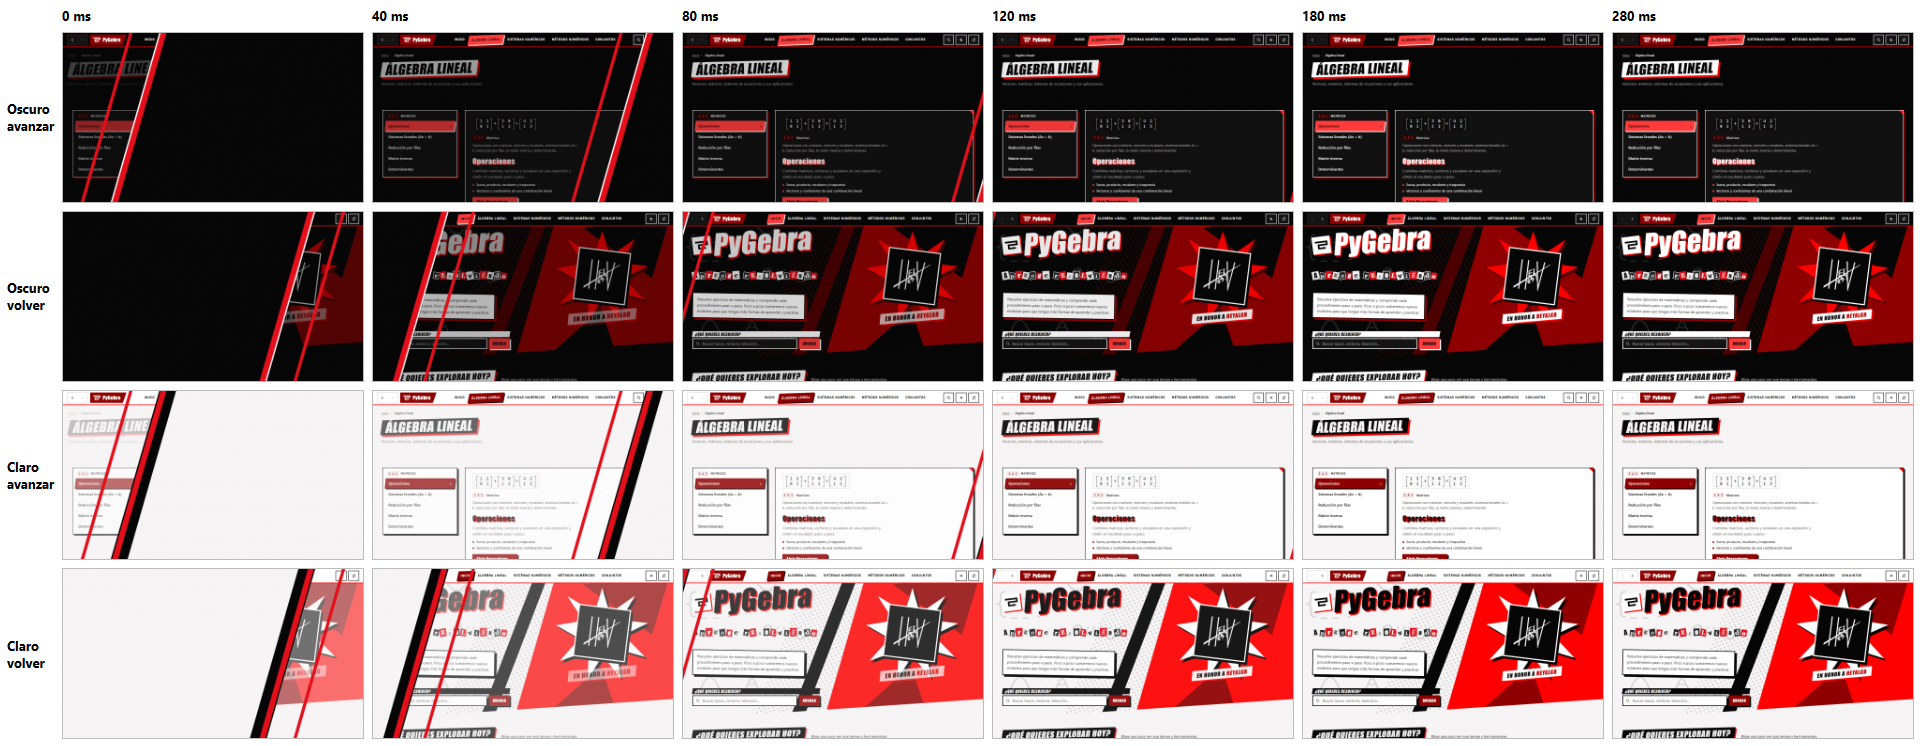
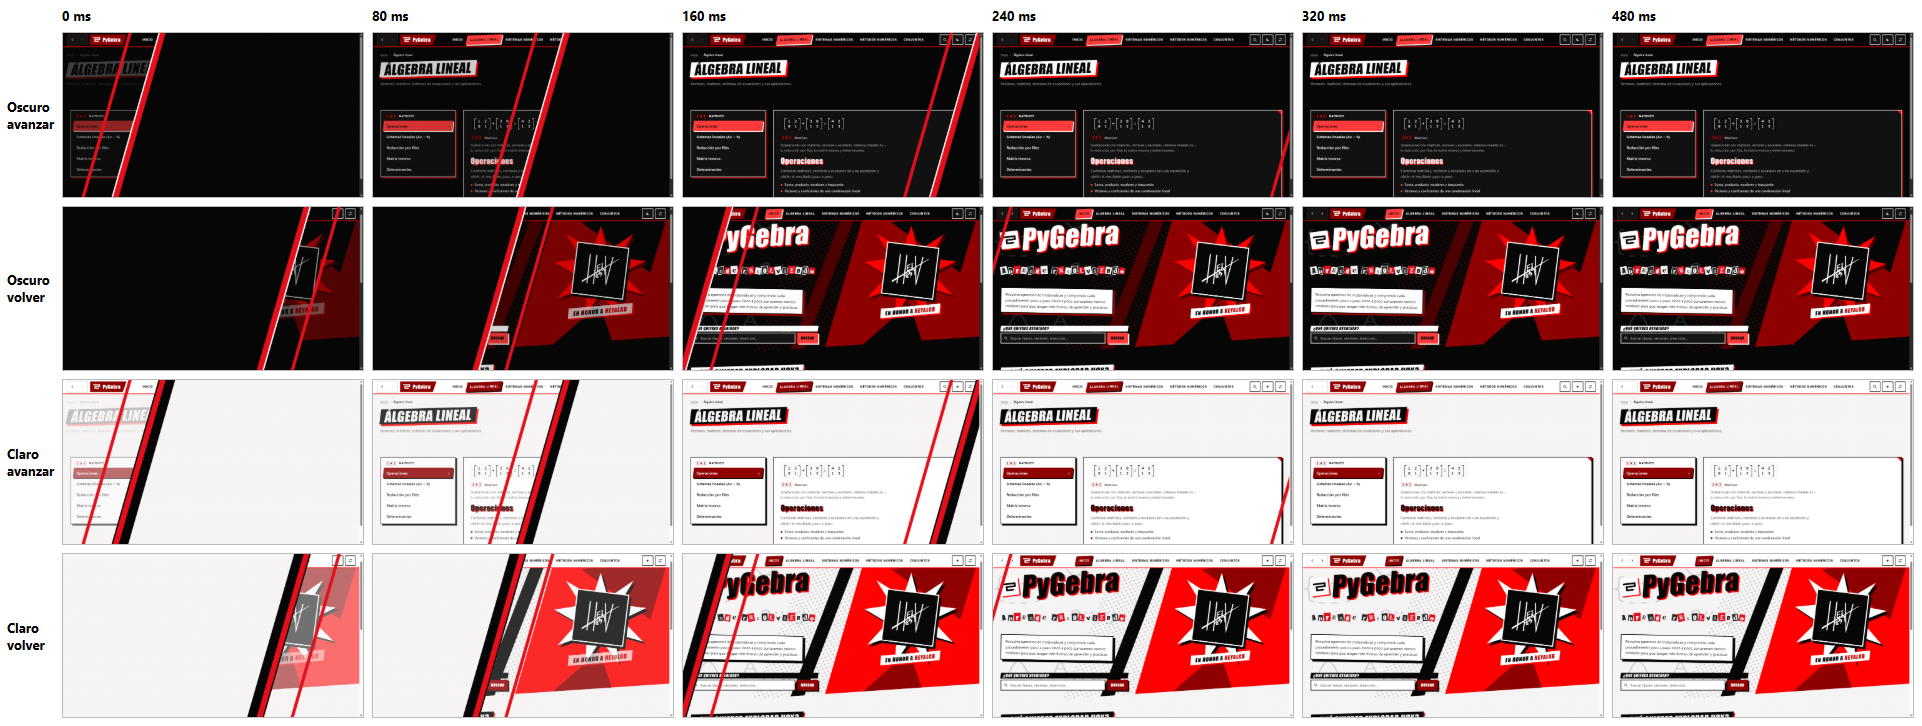
feat: dar más presencia al corte de HeyAlgb al cambiar de pantalla
El corte y su eco duran 0.48 s con una curva casi constante que frena al salir: las tres franjas y la diagonal se leen, la mitad de la página se ve hacia los 80 ms y las capas siguen sin recibir el puntero. Demo y mediciones rehechas en WebView2.

diff --git a/frontend/web/calculadora/static/calculadora/styles/homenaje-heyalgb.css b/frontend/web/calculadora/static/calculadora/styles/homenaje-heyalgb.css
@@ -724,7 +724,8 @@
    Al llegar a una pantalla, un corte en diagonal la descubre: la hoja lleva un filo, una
    franja roja y una banda negra paralelas, y lo que falta por descubrir es el papel del
    cartel (no un velo oscuro). Un eco rojo fino sigue la misma diagonal. La pantalla nueva
-   ya se ve en su primer cuarto y casi entera a los ~100 ms; todo termina en 280 ms. Al
+   ya se ve en su primer cuarto, la mitad hacia los 80 ms y casi entera a los ~160 ms; las
+   franjas cruzan a ritmo casi constante para que se lean y frenan al salir (480 ms). Al
    volver atrás el corte cruza en sentido contrario. Las capas no reciben el puntero: se
    puede leer y pulsar desde el primer fotograma. El contenedor de la página solo cambia
    su opacidad; los desplazamientos van en las cabeceras (el teclado fijo no se mueve). */
@@ -777,7 +778,7 @@
                 var(--hey-banda) 2.4vw 5.6vw, transparent 5.6vw),
             var(--hey-fondo, none),
             var(--hey-papel);
-        animation: hey-cortar 0.28s cubic-bezier(0.15, 0.85, 0.25, 1) both;
+        animation: hey-cortar 0.48s cubic-bezier(0.3, 0.45, 0.25, 1) both;
     }
 
     /* El eco: una astilla roja que sigue a la hoja por el lado ya descubierto. */
@@ -786,7 +787,7 @@
         z-index: 61;
         width: 1.1vw;
         background: #e3101b;
-        animation: hey-eco 0.28s cubic-bezier(0.15, 0.85, 0.25, 1) both;
+        animation: hey-eco 0.48s cubic-bezier(0.3, 0.45, 0.25, 1) both;
     }
 
     [data-estilo="heyalgb"][data-llegada][data-dir="atras"] body::after {

diff --git a/docs/temas-homenaje.md b/docs/temas-homenaje.md
@@ -143,7 +143,7 @@ fórmulas, estallido).
 | Momento | ChocoLab | BelugaCalc | HeyAlgb |
 |---|---|---|---|
 | Elegir el tema en Opciones (View Transition del mismo documento) | El ambiente se **derrama** en círculo desde la opción elegida (0.7 s) | La aplicación entra **desde el lado del riel** mientras la anterior se aparta (0.45 s) | **Corte diagonal** que barre la pantalla (0.34 s) |
-| Llegar a otra página | La página aparece desde media opacidad y la cabecera sube 8 px (0.32 s) | La página aparece y la cabecera entra con la subida de Fluent, 20 px con frenado (0.34 s). La **bola celeste y su muesca viajan** del área anterior a la nueva (animación CSS de 0.22 s, frenado cúbico); en la web, el subrayado de la hermana activa se desliza | **Corte en capas**: una hoja inclinada con filo blanco (negro de día), franja roja y banda negra cruza en diagonal y descubre la página; detrás queda el papel del cartel y la sigue un eco rojo fino (0.28 s). La cabecera da un golpe lateral inclinado (0.22 s). Al volver atrás, todo cruza en sentido contrario |
+| Llegar a otra página | La página aparece desde media opacidad y la cabecera sube 8 px (0.32 s) | La página aparece y la cabecera entra con la subida de Fluent, 20 px con frenado (0.34 s). La **bola celeste y su muesca viajan** del área anterior a la nueva (animación CSS de 0.22 s, frenado cúbico); en la web, el subrayado de la hermana activa se desliza | **Corte en capas**: una hoja inclinada con filo blanco (negro de día), franja roja y banda negra cruza en diagonal y descubre la página; detrás queda el papel del cartel y la sigue un eco rojo fino (0.48 s: las franjas cruzan a ritmo casi constante para que se lean y frenan al salir; la mitad de la página se ve hacia los 80 ms). La cabecera da un golpe lateral inclinado (0.22 s). Al volver atrás, todo cruza en sentido contrario |
 | Portada | La curva se traza sola, aparecen x₀, x₁ y la raíz, y la taza humea | La mascota flota y las fórmulas derivan | Titular, lema y dedicatoria entran «estampados»; el estallido gira despacio |
 | Catálogo | Módulos en cascada (40 ms); hover: sube 4 px | Filas en cascada (30 ms); hover: flecha y borde; pulsación al 99.5 % | Placas en cascada desde la izquierda (30 ms); hover y foco: salto instantáneo de 15 px |
 | Navegación | Pastillas con fondo al pasar | ☰ muestra los nombres y aparta el contenido; la bola cambia de área entre páginas | Pestañas con sombra dura; botones que saltan 2 px |
@@ -154,9 +154,10 @@ fijo. Las capas del corte de HeyAlgb no reciben el puntero.
 
 ![Corte de HeyAlgb, fotograma a fotograma](capturas/temas-homenaje/transicion-heyalgb.png)
 
-`transicion-heyalgb.png`: el corte a 0, 40, 80, 120, 180 y 280 ms, al avanzar y al
-volver, en oscuro y en claro. Desde el primer fotograma se ve la página nueva; hacia los
-100 ms está casi entera.
+`transicion-heyalgb.png`: el corte a 0, 80, 160, 240, 320 y 480 ms en la app de
+escritorio (WebView2), al avanzar y al volver, en oscuro y en claro. Desde el primer
+fotograma se ve parte de la página nueva, la mitad hacia los 80 ms y casi toda hacia los
+160 ms; las capas no reciben el puntero, así que nada espera a que termine.
 
 ## Fluidez al cambiar de pantalla
 
@@ -193,10 +194,14 @@ herramienta, en ms):
 | Minimalista | 344 | 32 | 361 | 46 |
 | ChocoLab | 353 | 40 | 692 | 379 |
 | BelugaCalc | 347 | 37 | 703 | 396 |
-| HeyAlgb | 354 | 42 | 662 | 331 |
+| HeyAlgb | 354 | 33 | 662 | 515* |
 
-Al volver atrás la entrada terminada bajó igual (HeyAlgb 740 → 334 ms, BelugaCalc 805 →
-455). Con movimiento reducido la página se ve a los ~35 ms y queda quieta a los ~50 ms.
+\* Con el corte de 0.48 s (con el de 0.28 s eran 331 ms). Es la duración del propio
+corte, que no bloquea: la página se ve a los 33 ms, la mitad hacia los 80 ms, y se puede
+leer y pulsar desde el primer fotograma.
+
+Al volver atrás la entrada terminada bajó igual (BelugaCalc 805 → 455 ms; HeyAlgb, 740 →
+511 ms con su corte de 0.48 s). Con movimiento reducido la página se ve a los ~35 ms y queda quieta a los ~50 ms.
 En Edge la página nueva se ve a los 47–68 ms. Las ráfagas de clics seguidos siempre
 terminan en el destino final. WebView2 no usa bfcache: volver atrás recarga la página.
 
